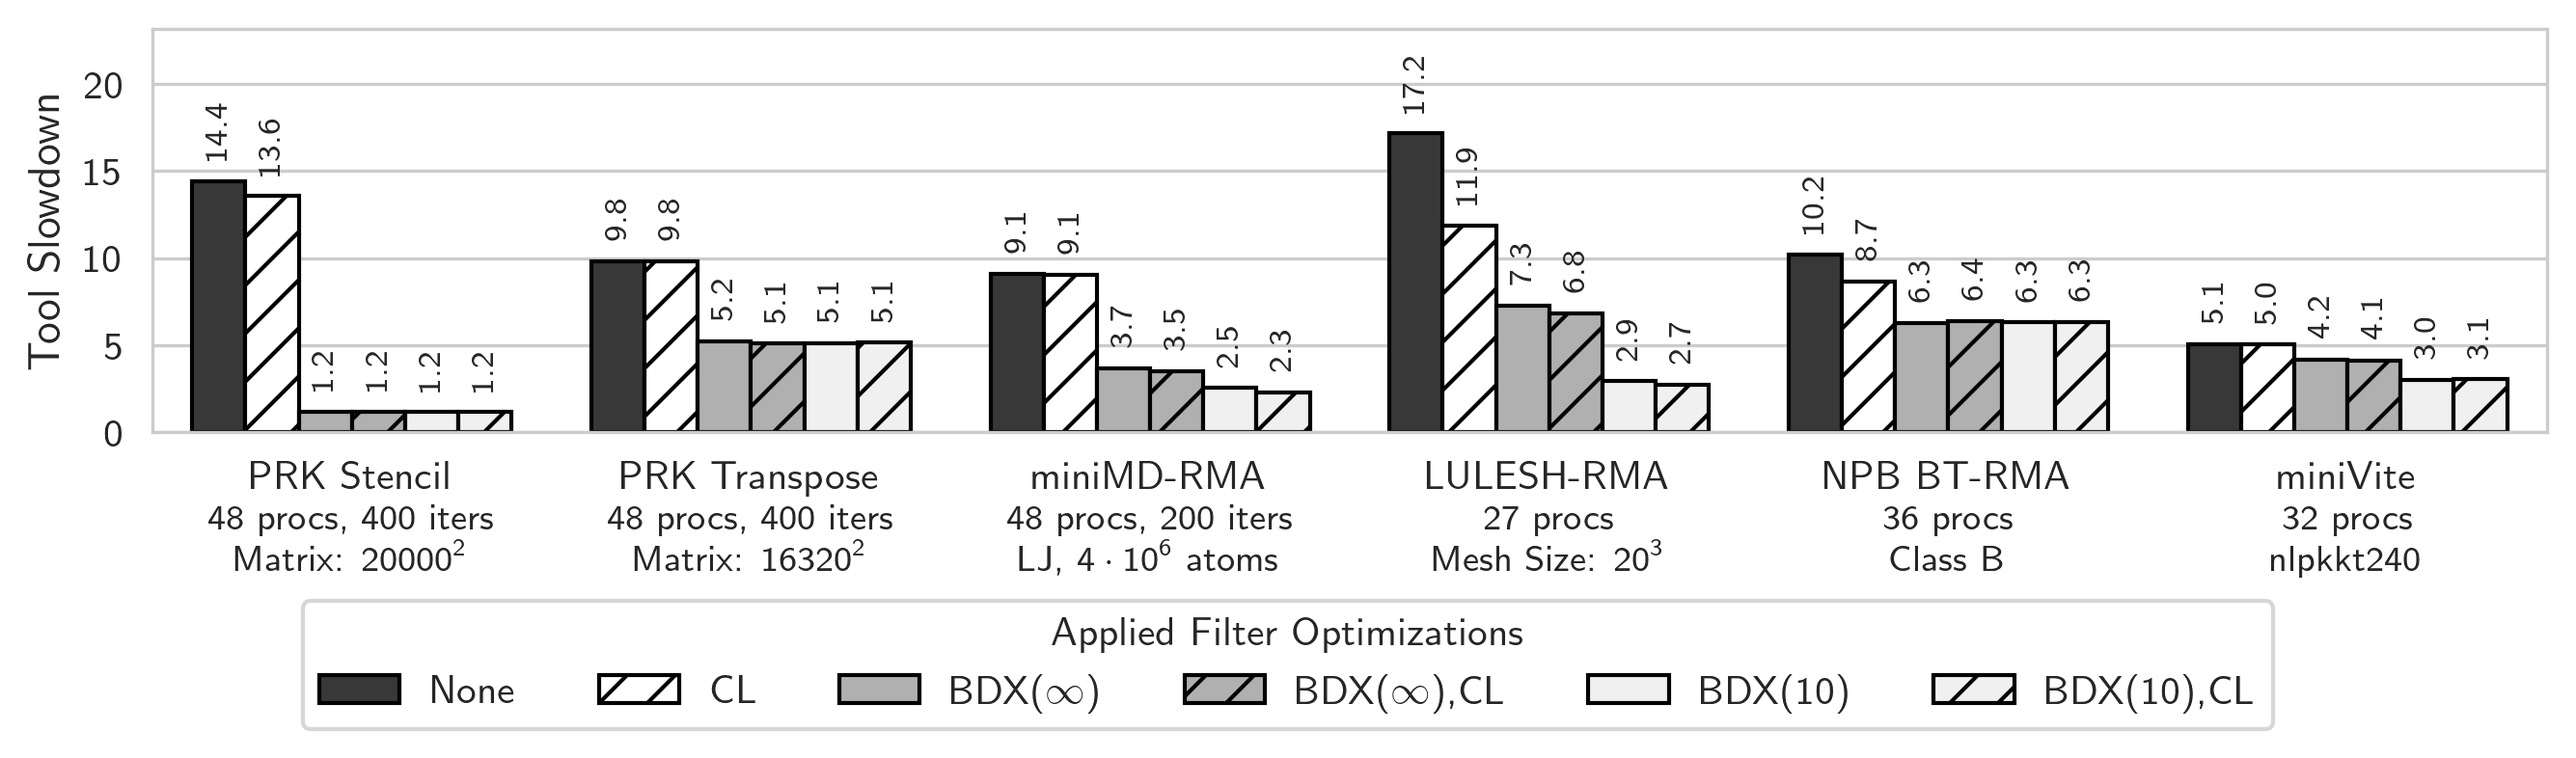
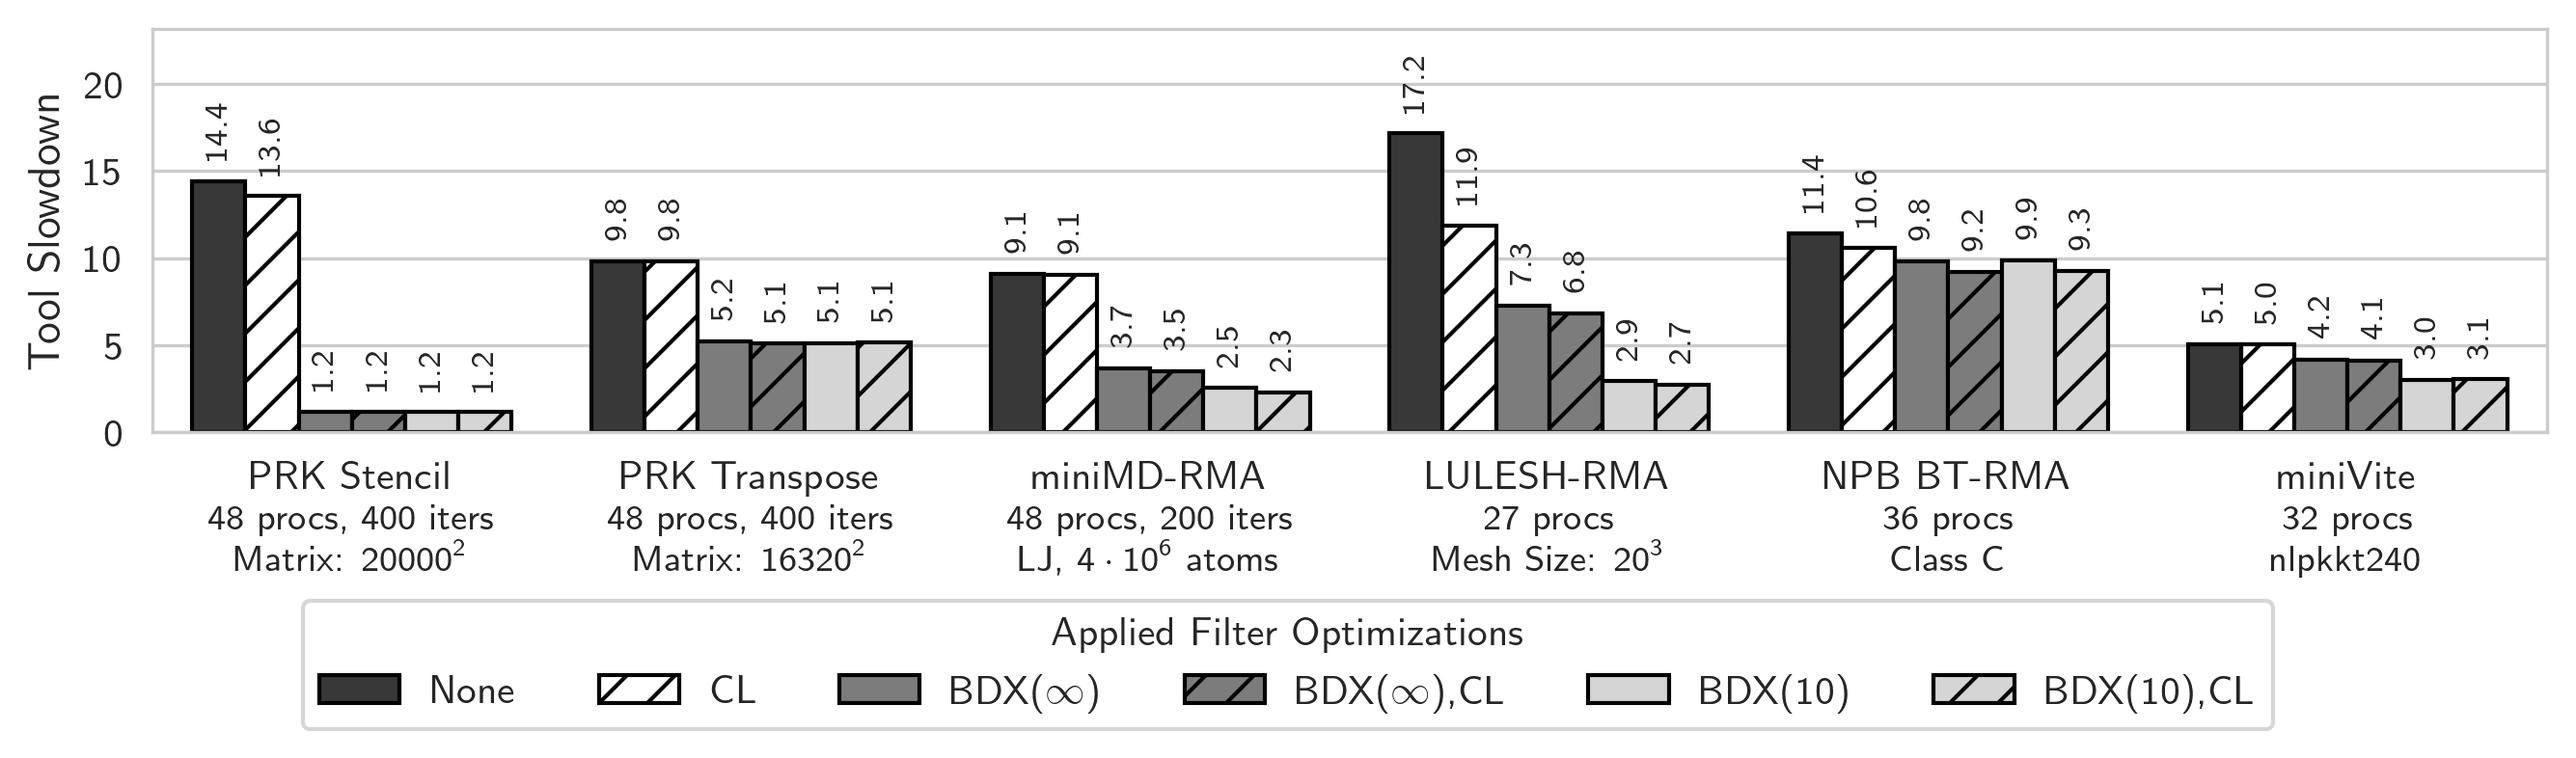
Update plotting script and plots

diff --git a/performance_evaluation/plot_static_filter_results.py b/performance_evaluation/plot_static_filter_results.py
@@ -67,7 +67,7 @@ def read_csv(benchmark_name, csv_file) -> None:
     df = df.drop(df[(df['optimizations'] == "AL6") |
                  (df['optimizations'] == "ALX6") | (df['optimizations'] == "ALX6,CLUSTER")].index)
 
-    df['optimizations'] = df['optimizations'].replace('1000', r'($\\infty$)', regex=True).replace('10', '(10)', regex=True).replace('10', '(10)', regex=True).replace(
+    df['optimizations'] = df['optimizations'].replace('1000', r'($\\infty$)', regex=True).replace('10', '(10)', regex=True).replace(
         'CLUSTER', 'CL', regex=True).replace('ALX', 'BDX', regex=True).replace('AL', 'BD', regex=True)
     # df = df.replace('AL1000','AL(∞)').replace('ALX1000','ALX(∞)').replace('ALX6','ALX(6)').replace('ALX1000,CLUSTER','ALX(∞)+CLUSTER').replace('ALX6,CLUSTER','ALX(6)+CLUSTER')
 
@@ -84,8 +84,8 @@ def read_csv(benchmark_name, csv_file) -> None:
 
 
 def create_plots(dfs) -> None:
-    palette = ["#383838", "#FFFFFF", "#b0b0b0", "#b0b0b0",
-               "#b0b0b0", "#f0f0f0", "#f0f0f0", "#f0f0f0"]
+    palette = ["#383838", "#FFFFFF", "#7c7c7c", "#7c7c7c",
+               "#7c7c7c", "#d5d5d5", "#d5d5d5", "#d5d5d5"]
 
     sns.set_style("whitegrid")
     fig = plt.figure(figsize=(9, 2), dpi=300)
@@ -104,7 +104,7 @@ def create_plots(dfs) -> None:
 
     # define hatches for the different bars
     hatches = ['', '//', '..', '', '//', '..', '', '//']
-    hatches = [hatch for hatch in hatches for _ in range(num_benchmarks)]
+    hatches = [hatch for hatch in hatches for _ in range(num_benchmarks)] + hatches
     # Loop over the bars
     for i, thisbar in enumerate(ax.patches):
         # Set a different hatch for each bar

diff --git a/performance_evaluation/plot_static_filter_performance_results.py b/performance_evaluation/plot_static_filter_performance_results.py
@@ -25,7 +25,7 @@ benchmark_paths = {
     "PRK Transpose\n{\small 48 procs, 400 iters}\n{\small Matrix: $16320^2$}": "benchmark_results/PRK_transpose/result/result_csv.dat",
     "miniMD-RMA\n{\small 48 procs, 200 iters}\n{\small LJ, $4 \cdot 10^6$ atoms}": "benchmark_results/miniMD//result/result_csv.dat",
     "LULESH-RMA\n{\small 27 procs}\n{\small Mesh Size: $20^3$}": "benchmark_results/lulesh/result/result_csv.dat",
-    "NPB BT-RMA\n{\small 36 procs}\n{\small Class B}": "benchmark_results/BT-RMA/result/result_csv.dat",
+    "NPB BT-RMA\n{\small 36 procs}\n{\small Class C}": "benchmark_results/BT-RMA/result/result_csv.dat",
     "miniVite\n{\small 32 procs}\n{\small nlpkkt240}": "benchmark_results/miniVite/result/result_csv.dat"
 }
 
@@ -96,8 +96,8 @@ def read_csv(benchmark_name, csv_file) -> None:
 
 
 def create_plots(dfs) -> None:
-    palette = ["#383838", "#FFFFFF", "#b0b0b0",
-               "#b0b0b0", "#f0f0f0", "#f0f0f0"]
+    palette = ["#383838", "#FFFFFF", "#7c7c7c",
+               "#7c7c7c", "#d5d5d5", "#d5d5d5"]
 
     sns.set_style("whitegrid")
     fig = plt.figure(figsize=(9, 2.2), dpi=300)
@@ -112,7 +112,7 @@ def create_plots(dfs) -> None:
 
     # define hatches for the different bars
     hatches = ['', '//', '', '//', '', '//']
-    hatches = [hatch for hatch in hatches for _ in range(num_benchmarks)]
+    hatches = [hatch for hatch in hatches for _ in range(num_benchmarks)] + hatches
     # Loop over the bars
     for i, thisbar in enumerate(ax.patches):
         # Set a different hatch for each bar
